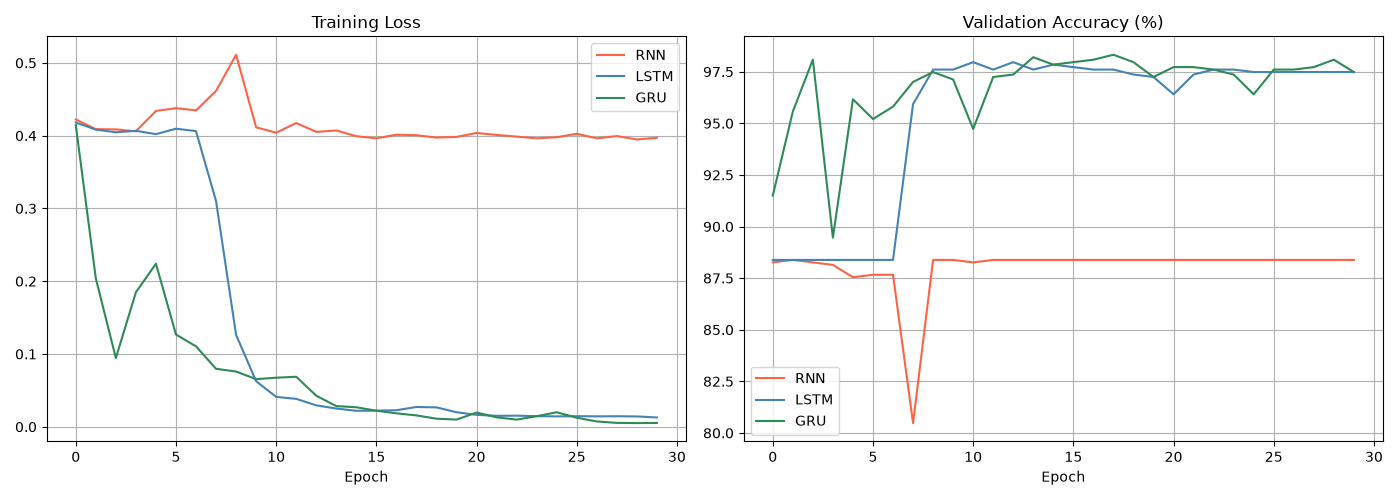
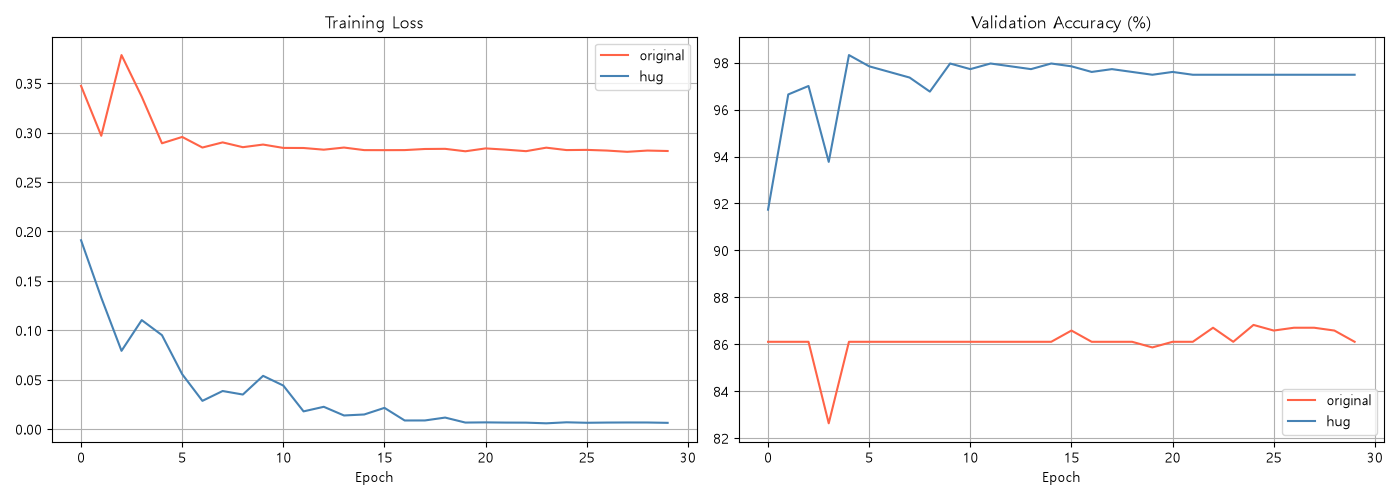
tok_main.py 완료: 커스텀 vs HuggingFace 토크나이저 비교 실험 및 결과 정리

diff --git a/tok_main.py b/tok_main.py
@@ -49,6 +49,10 @@ def make_splits(length_of_df):
 
 
 
+from models.rnn import SpamLSTM, SpamRNN, SpamGRU
+from utils.visualize import plot_confusion_matrices, plot_comparison
+import torch.nn as nn
+import torch.optim as optim
 
 if __name__ == '__main__':
 
@@ -65,15 +69,60 @@ if __name__ == '__main__':
     #데이터프레임 열 중 label 열을 0(정상), 1(스팸)
     df['label'] = (df['label'] == 'spam').astype(int) 
 
-    train_idx, valid_idx, test_inx = make_splits(len(df))
+    train_idx, valid_idx, test_idx = make_splits(len(df))
 
     #1. 전통적인 tokenizer를 거친 데이터셋을 가지고 와서 lstm으로 훈련
+    #1-1. 전통적인 tokenizer를 거친 데이터셋 로드
+    original_vocab = main.build_vocab(df)
+    original_data = main.SpamDataset(df, original_vocab, 50)
+
+    original_train = DataLoader(Subset(original_data, train_idx), batch_size=32, shuffle=True)
+    original_valid = DataLoader(Subset(original_data, valid_idx), batch_size=32)
+    original_test = DataLoader(Subset(original_data, test_idx), batch_size=32)
+
+    #1-2. 모델생성
+    original_lstm = SpamLSTM(len(original_vocab))
+    
+
+    criterion = nn.CrossEntropyLoss()
+    optimizer = optim.Adam(original_lstm.parameters())
+    device = 'cuda' if torch.cuda.is_available() else 'cpu'
+
+    #훈련, 평가
+    o_history = main.train(original_lstm, original_train, original_valid,
+                                    criterion, optimizer, num_epochs=30,
+                                    device=device, model_name='original')
+
+    o_labels, o_preds = main.evaluate(original_lstm, original_test, device, model_name='original')
 
     #2. 허깅페이스 tokenizer를 거친 데이터셋을 가지고 와서 lstm으로 훈련
+    #2-1. 허깅페이스를 거친 데이터셋 로드
+    hug_data = HugDataset(df, tokenizer, 50)
 
+    hug_train = DataLoader(Subset(hug_data, train_idx), batch_size=32, shuffle=True)
+    hug_valid = DataLoader(Subset(hug_data, valid_idx), batch_size=32)
+    hug_test = DataLoader(Subset(hug_data, test_idx), batch_size=32)
 
+    
+    #허깅페이스에서 다운로드받은 토크나이저의 트것ㅇ 속에 vocab_size가 미리 정의되어 있음
+    hug_lstm = SpamLSTM(tokenizer.vocab_size)
+    new_optimizer = optim.Adam(hug_lstm.parameters())
+    h_history = main.train(hug_lstm, hug_train, hug_valid,
+                            criterion, new_optimizer, num_epochs=30,
+                            device=device, model_name='huggingface')
+    h_labels, h_preds = main.evaluate(hug_lstm, hug_test, device, model_name='hugging')
 
+    histories, eval_results, train_models = [], [], {}
+    histories.append(o_history)
+    histories.append(h_history)
 
+    eval_results.append((o_labels, o_preds))
+    eval_results.append((h_labels, h_preds))
+
+    train_models['original'] = original_lstm
+    train_models['hugging'] = hug_lstm
+
+    plot_comparison(histories, ['original', 'hug'])
 
     # print(f'토크나이저의 어휘 크기 : {tokenizer.vocab_size}')
     # print(f'토크나이저의 최대 입력 길이 : {tokenizer.model_max_length}')
